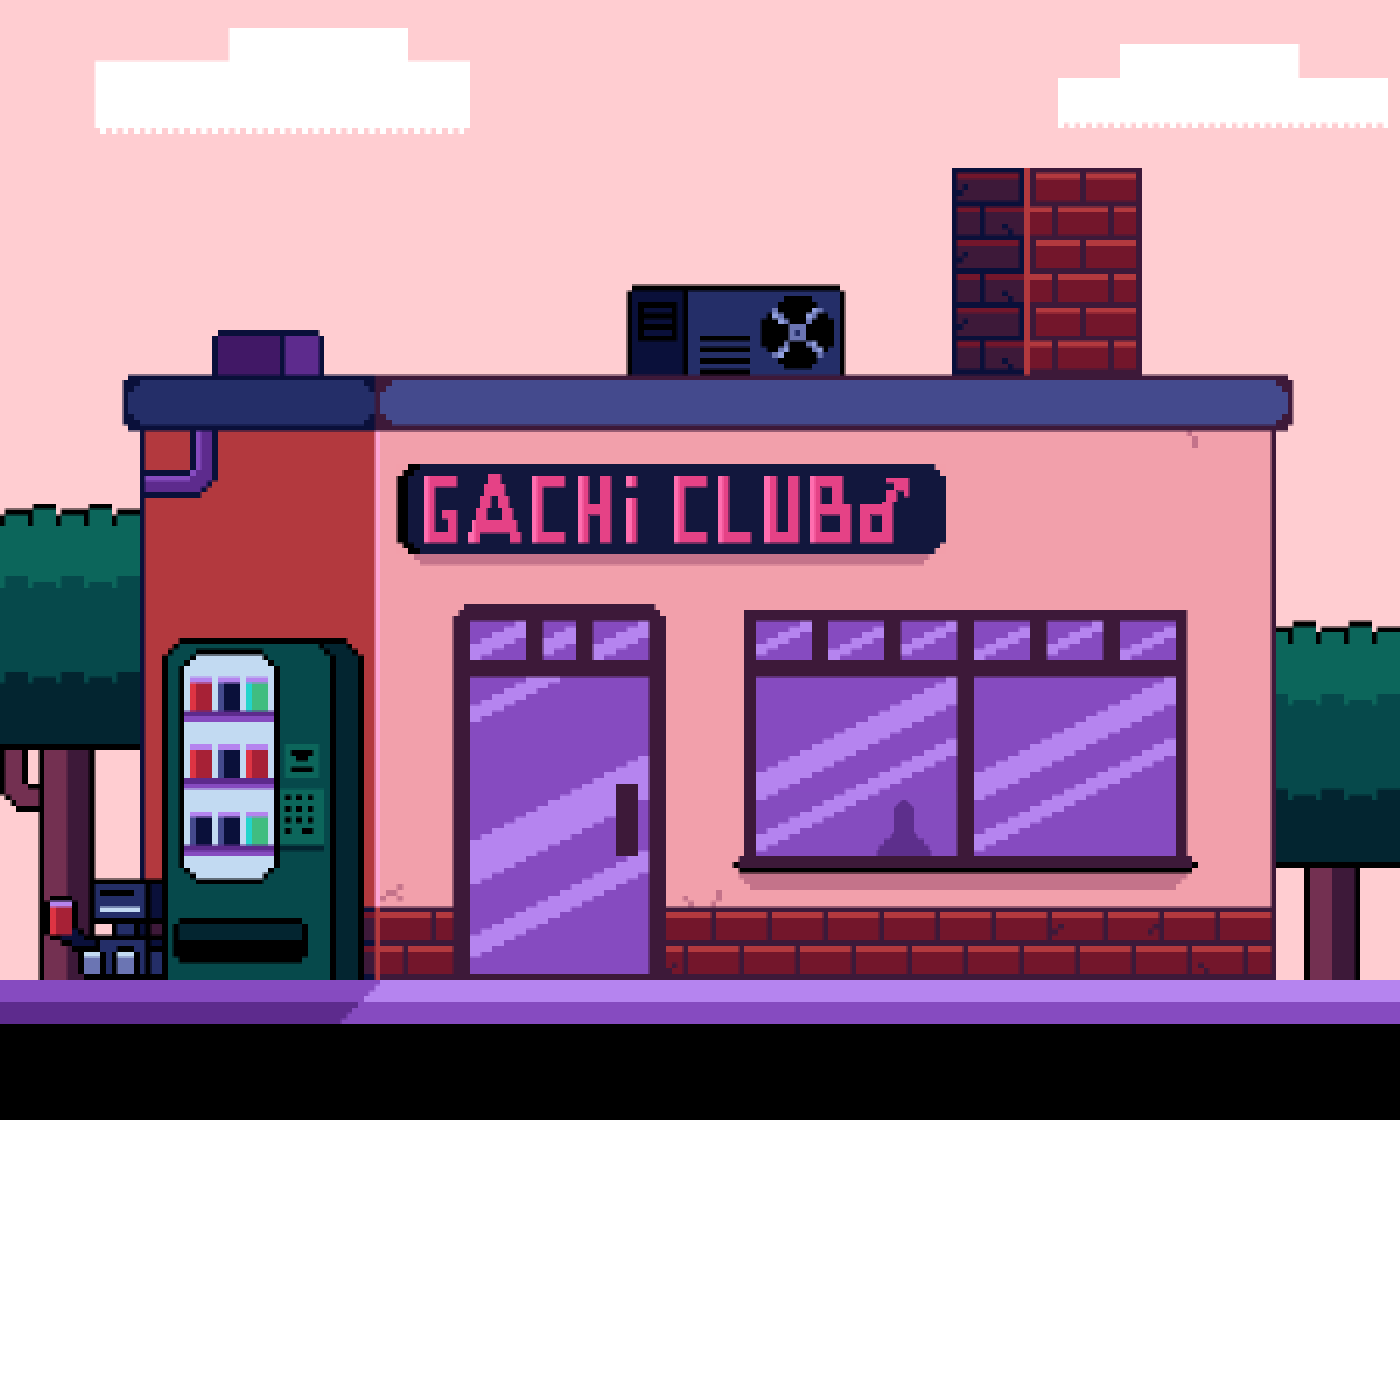
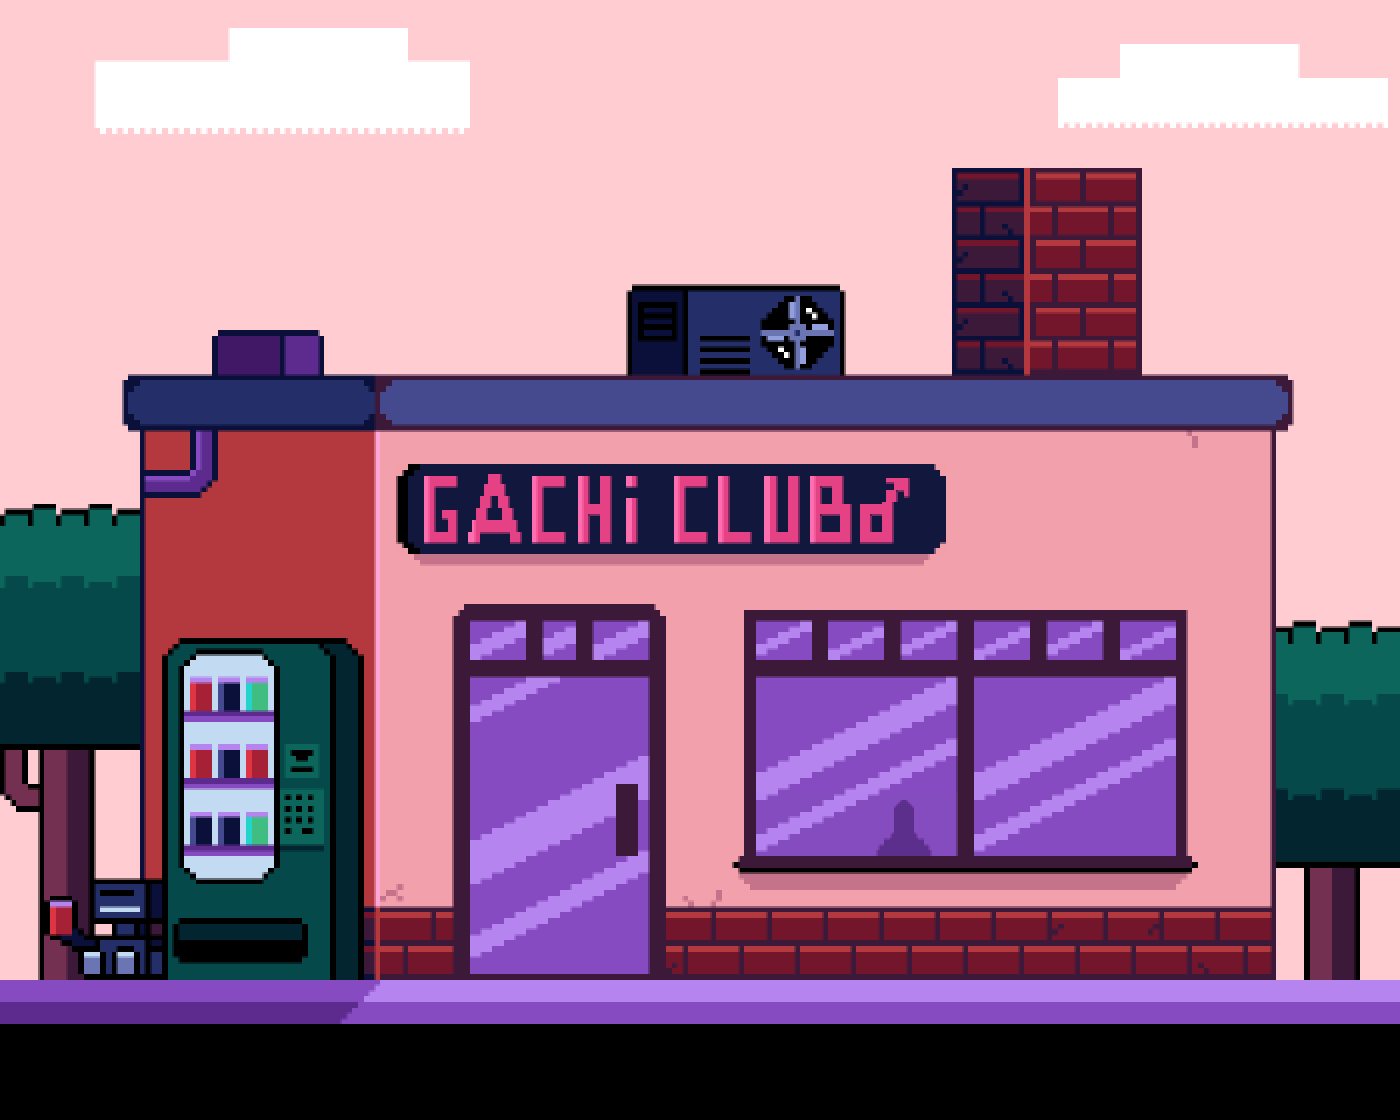
Fixed background size

diff --git a/view/view.cpp b/view/view.cpp
@@ -28,7 +28,7 @@ View::View()
   errors_->setGeometry(5, 75, 130, 23);
   SetErrorsCount(0);
   SetTimer();
-  SetBackgroundImage(":/club_level/background/background_frame_1.png");
+  SetBackgroundImage(":/club_level/background/background_frame_0.png");
 
   graphics_->setHorizontalScrollBarPolicy(Qt::ScrollBarAlwaysOff);
   graphics_->setVerticalScrollBarPolicy(Qt::ScrollBarAlwaysOff);
@@ -39,26 +39,26 @@ void View::SetErrorsCount(int value) {
 }
 
 void View::SetTimer() {
-  QTimer* timer = new QTimer(this);
-  connect(timer, &QTimer::timeout, this, [this]() {
-    ChangeFrame();
-  });
+  auto* timer = new QTimer(this);
+  connect(timer, &QTimer::timeout, this, &View::ChangeFrame);
   timer->start(75);
 }
 
 void View::SetBackgroundImage(const QString& path) {
-  QPixmap path1(path);
-  path1 = path1.scaled(this->size(), Qt::IgnoreAspectRatio);
+  QPixmap pixmap(path);
+  pixmap = pixmap.scaled(size(), Qt::IgnoreAspectRatio);
   QPalette palette;
-  palette.setBrush(QPalette::Base, path1);
+  palette.setBrush(QPalette::Base, pixmap);
   graphics_->setPalette(palette);
 }
+
 void View::ChangeFrame() {
   current_frame_++;
   current_frame_ %= 16;
   SetBackgroundImage(":/club_level/background/background_frame_"
-                         + QString::number(current_frame_ + 1) + ".png");
+                         + QString::number(current_frame_) + ".png");
 }
+
 void View::keyPressEvent(QKeyEvent* event) {
   Controller::Instance().keyPressEvent(event);
 }

diff --git a/view/view.h b/view/view.h
@@ -27,7 +27,7 @@ class View : public QMainWindow {
   static View& Instance();
 
   static constexpr int kWidth = 700;
-  static constexpr int kHeight = 700;
+  static constexpr int kHeight = 560;
 
   static constexpr int kBlue = 0x0dc1fb;
   static constexpr int kYellow = 0xfdff73;
